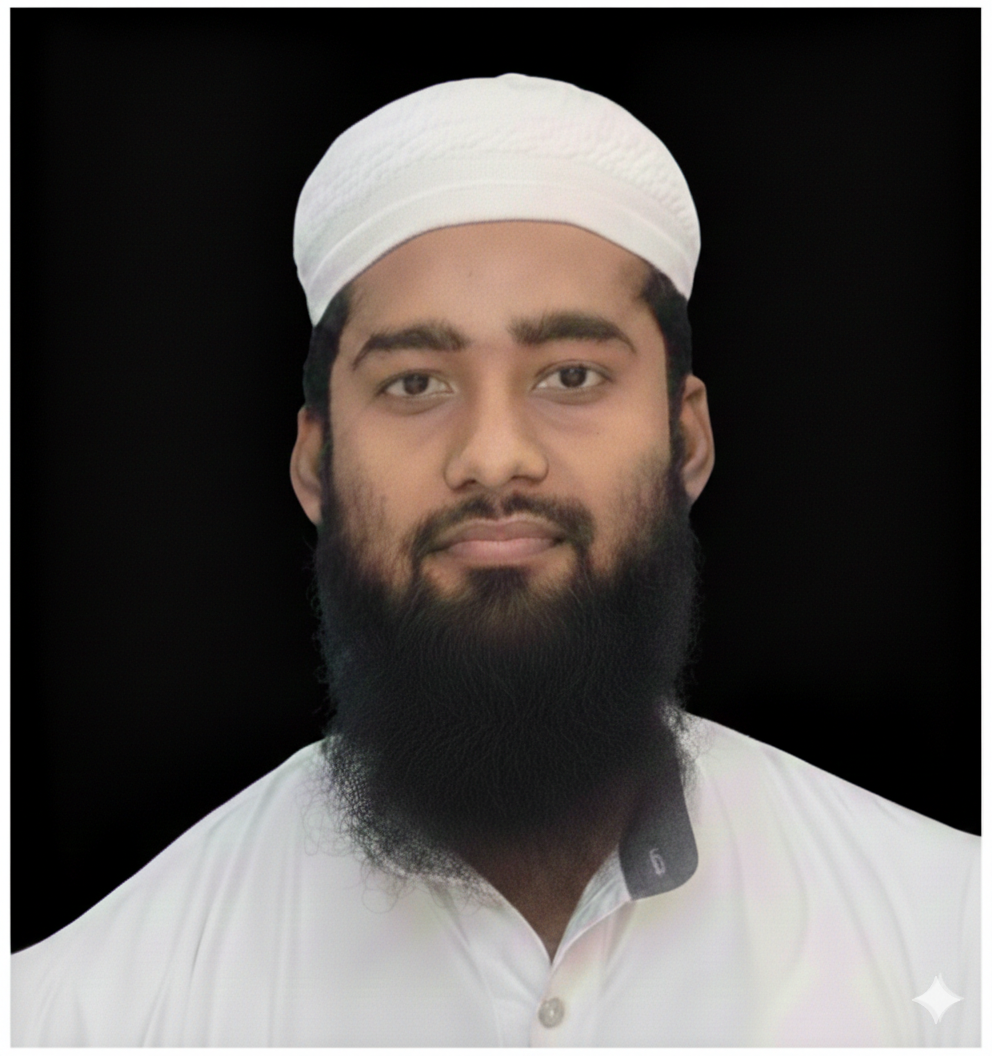
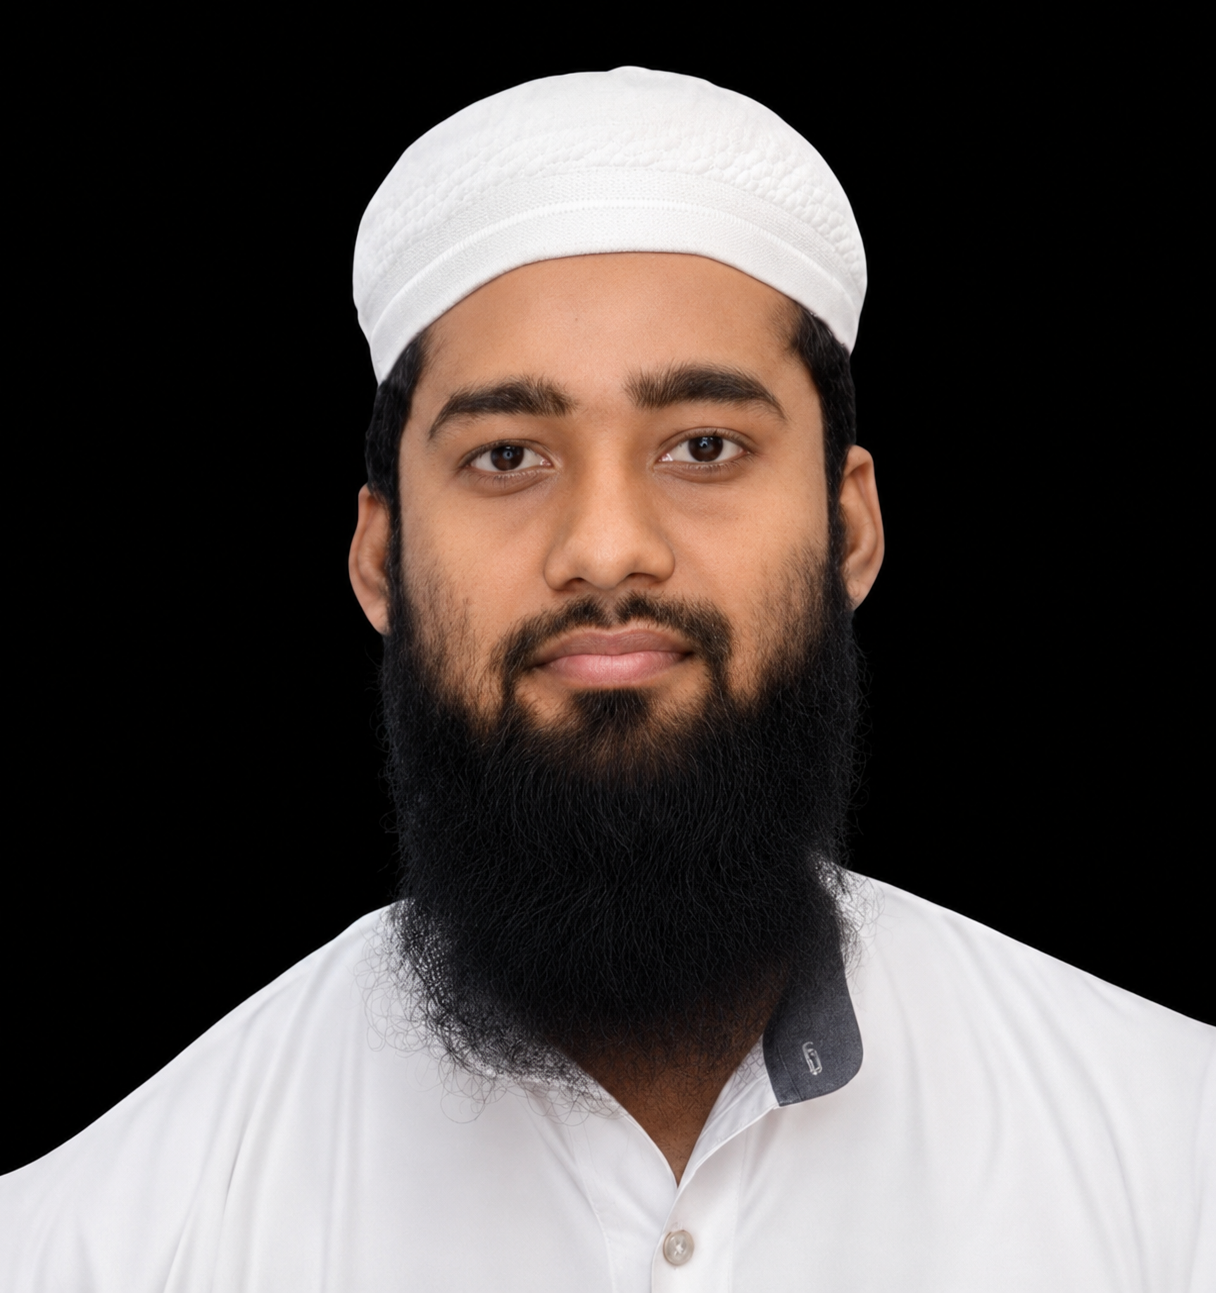
add portfolio landing page with interactive project slider, navigation, and layout configuration

diff --git a/src/app/layout.tsx b/src/app/layout.tsx
@@ -1,20 +1,21 @@
 import type { Metadata } from 'next';
-import { Geist, Geist_Mono } from 'next/font/google';
+import { Inter, Poppins } from 'next/font/google';
 import './globals.css';
 
-const geistSans = Geist({
-  variable: '--font-geist-sans',
+const inter = Inter({
   subsets: ['latin'],
+  variable: '--font-inter',
 });
 
-const geistMono = Geist_Mono({
-  variable: '--font-geist-mono',
+const poppins = Poppins({
   subsets: ['latin'],
+  variable: '--font-poppins',
+  weight: ['400', '500', '600', '700'],
 });
 
 export const metadata: Metadata = {
-  title: 'abdullah',
-  description: 'This is my portfolio',
+  title: 'Abdullah | Portfolio',
+  description: 'Frontend Developer Portfolio built with Next.js',
 };
 
 export default function RootLayout({
@@ -24,7 +25,7 @@ export default function RootLayout({
 }>) {
   return (
     <html lang="en" className="scroll-smooth">
-      <body className={`${geistSans.variable} ${geistMono.variable} antialiased`}>{children}</body>
+      <body className={`${inter.variable} ${poppins.variable} antialiased`}>{children}</body>
     </html>
   );
 }

diff --git a/src/app/portfolio/page.tsx b/src/app/portfolio/page.tsx
@@ -21,7 +21,7 @@ import Image from 'next/image';
 export default function Portfolio() {
   return (
     <div id="projects" className="group">
-      <h1 className="text-2xl uppercase text-amber-400 text-center mb-3">my Portfolio</h1>
+      <h1 className="text-2xl uppercase text-amber-400 text-center mb-3">my projects</h1>
       <p className="mb-10 text-center">
         Showcasing my skills, projects, and journey as a developer
       </p>

diff --git a/src/app/navbar/page.tsx b/src/app/navbar/page.tsx
@@ -61,7 +61,7 @@ const Navbar = () => {
               font-bold
             "
           >
-            Portfolio
+            Projects
           </span>
           <span
             className="
